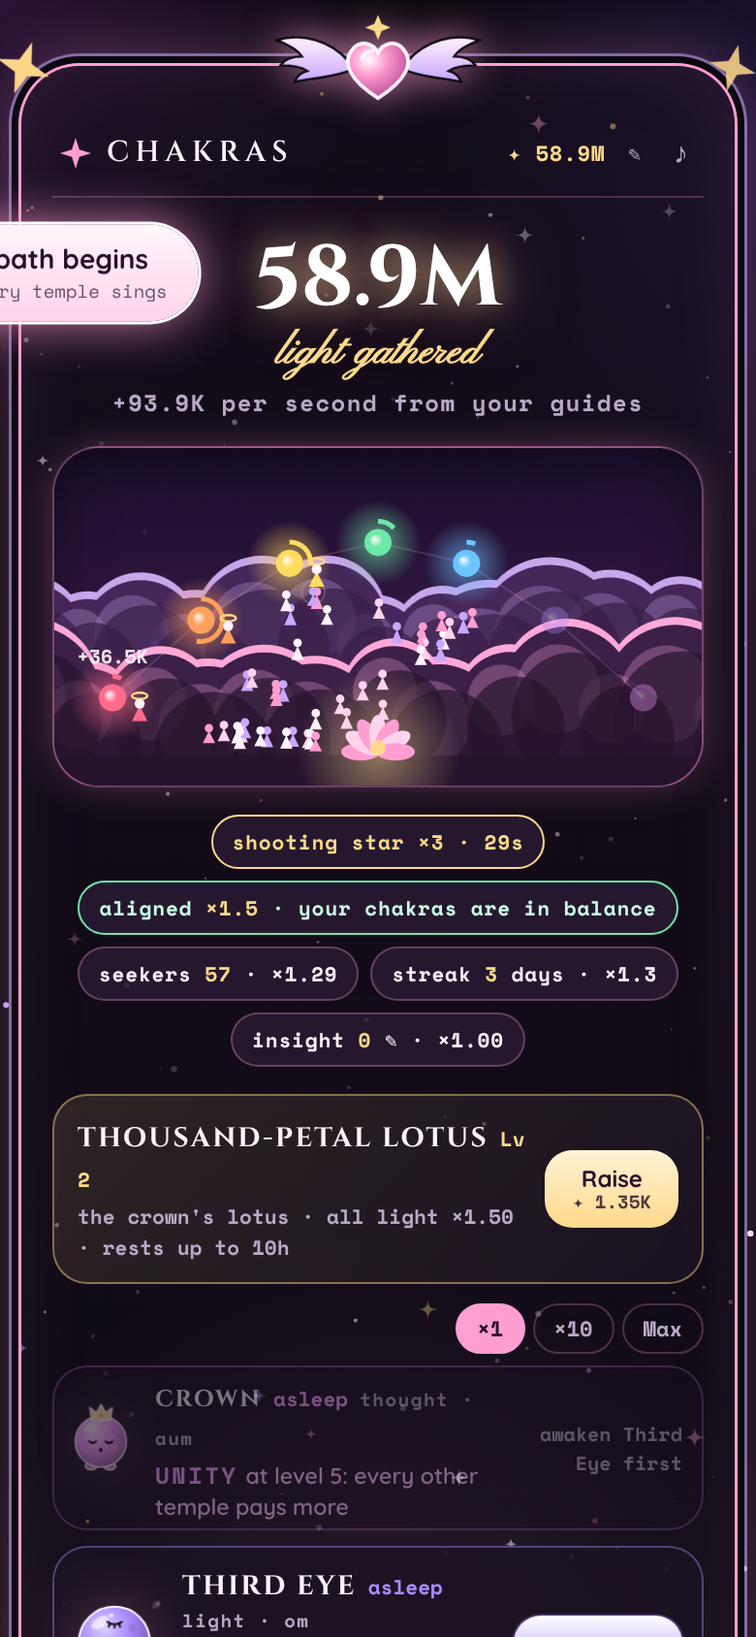
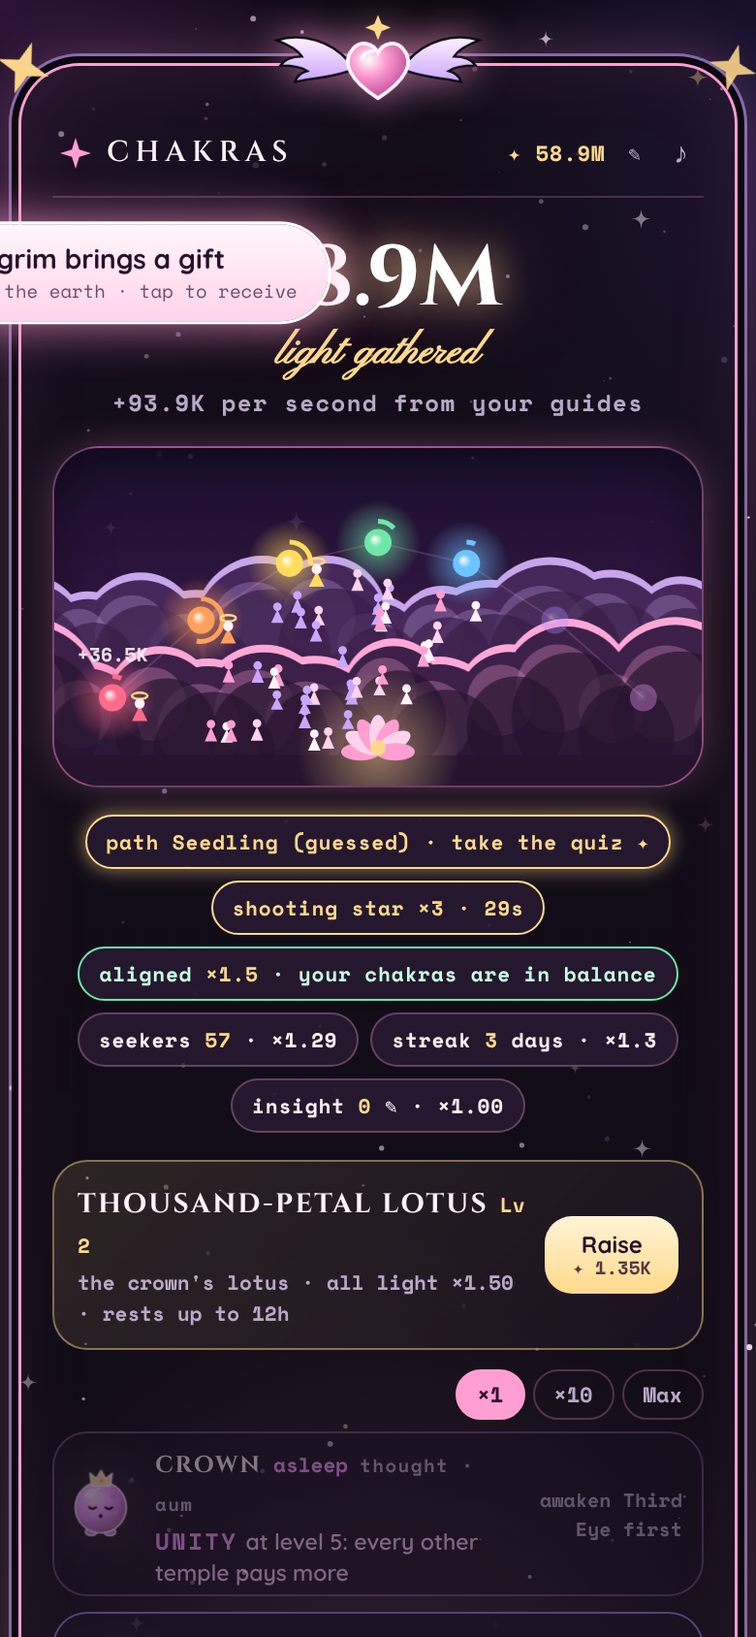
Your path: an opening quiz that sets how the game meets each player
New players take a short quiz (seven scored questions on experience,
stillness, techniques, staying with hard feelings, chakra awareness,
appetite for intensity and felt energy, plus a private health question
and an intention). assess() places them as Seedling, Blossoming or Open
lotus, with safeguards for skipped or invalid answers, mixed signals,
raw trauma and medical conditions. The path drives when Deepen opens,
card rewards for gentle and deep cards, visitors, rest time, the
alignment ceiling and 'for you' suggestions. Unsafe cards are filtered
out with a fallback to reflection. Older saves get a guessed path; the
quiz can be retaken from the sanctuary.

Claude-Session: https://claude.ai/code/session_01Cu9cDfZ5J75K2oig87yeLY

diff --git a/index.html b/index.html
@@ -189,6 +189,21 @@
   .card .sitter { position: absolute; top: -58px; right: 18px; }
   .card .sitter .buddy { width: 68px; height: 68px; margin: 0; }
   .card .text { font-size: 22px; line-height: 1.4; font-weight: 700; }
+  .qbar { height: 4px; border-radius: 4px; background: rgba(255,255,255,.08); margin: 10px 0 18px; overflow: hidden; }
+  .qbar i { display: block; height: 100%; width: 0; background: linear-gradient(90deg, var(--lilac), var(--rose)); transition: width .4s ease; }
+  .qopts button { padding: 14px 16px; }
+  .qopts button b { font-family: "Quicksand", sans-serif; font-size: 16px; letter-spacing: 0; text-transform: none; font-weight: 700; }
+  .qopts button.sel { border-color: var(--rose); background: color-mix(in srgb, var(--rose) 18%, rgba(42,27,51,.85)); }
+  .qopts .tick { margin-left: auto; width: 20px; height: 20px; border-radius: 6px; border: 1.5px solid var(--rose); flex: none; display: grid; place-items: center; font-size: 13px; color: #2a0f2b; }
+  .qopts button.sel .tick { background: var(--rose); }
+  .pathcard { margin-top: 14px; text-align: left; }
+  .pathcard li { margin: 6px 0; color: #e6d6ee; font-weight: 500; font-size: 14.5px; line-height: 1.45; }
+  .pathcard .note { text-align: left; font-size: 13px; color: var(--gold); margin: 8px 0 0; }
+  .foryou { font-family: "Space Mono", monospace; font-size: 9.5px; letter-spacing: .1em; text-transform: uppercase; padding: 2px 7px; margin-left: 6px; border-radius: 999px;
+    vertical-align: middle; color: #2a0f2b; background: var(--gold); }
+  .choice .foryou { color: #2a0f2b; font-weight: 700; }
+  .chip.path { cursor: pointer; border-color: var(--lilac); }
+  .chip.path.ask { border-color: var(--gold); color: var(--gold); animation: ready 1.6s ease-in-out infinite; }
   .care { margin: 14px 0 0; padding: 8px 12px; border-radius: 12px; font-size: 12.5px; font-weight: 600; line-height: 1.45; color: #ffe7c2;
     background: rgba(255,217,138,.08); border: 1px solid color-mix(in srgb, var(--gold) 40%, transparent); }
   .care[hidden] { display: none; }
@@ -522,7 +537,7 @@
       <div class="lrate" id="h-rate">+0 per second</div>
     </div>
     <div class="scene sanct" id="h-scene"><canvas id="h-canvas" aria-hidden="true"></canvas></div>
-    <div class="chips"><span class="chip boost" id="h-boost" hidden></span><span class="chip" id="h-align" hidden></span><span class="chip" id="h-seekers"></span><span class="chip" id="h-streak"></span><span class="chip" id="h-insight"></span><span class="chip" id="h-petals"></span></div>
+    <div class="chips"><span class="chip path" id="h-path" role="button" tabindex="0"></span><span class="chip boost" id="h-boost" hidden></span><span class="chip" id="h-align" hidden></span><span class="chip" id="h-seekers"></span><span class="chip" id="h-streak"></span><span class="chip" id="h-insight"></span><span class="chip" id="h-petals"></span></div>
     <div class="altar">
       <div><b>Thousand-petal lotus</b><span class="lv" id="a-lv"></span><div class="rr" id="a-info"></div></div>
       <button id="a-buy">Raise<small id="a-cost"></small></button>
@@ -543,6 +558,29 @@
     <h2>The lotus</h2>
     <p class="muted" id="l-sub" style="margin:6px 0 14px"></p>
     <div class="jlist" id="l-list"></div>
+  </section>
+
+  <!-- the path quiz -->
+  <section class="screen" id="s-quiz">
+    <div class="jhead"><p class="label" id="q-step"></p><button class="link" id="q-back" style="padding:6px 0">← Back</button></div>
+    <div class="qbar"><i id="q-prog"></i></div>
+    <h2 id="q-title" style="font-size:21px;letter-spacing:.05em;text-transform:none;line-height:1.3"></h2>
+    <p class="muted" id="q-help" style="margin:8px 0 0"></p>
+    <div class="choice qopts" id="q-opts"></div>
+    <button class="btn" id="q-next" style="margin-top:16px" hidden>Next</button>
+    <button class="link" id="q-skip">Skip this one</button>
+  </section>
+
+  <!-- your path -->
+  <section class="screen center" id="s-path">
+    <div class="scene" style="min-height:200px"><div class="lineup" id="pa-line"></div></div>
+    <p class="label" style="justify-content:center;margin-top:18px">your path</p>
+    <h2 id="pa-name" style="margin-top:4px"></h2>
+    <p class="script" id="pa-sub" style="font-size:26px;margin:4px 0 0"></p>
+    <div class="panel pathcard"><ul id="pa-list" style="margin:0;padding-left:18px"></ul><div id="pa-notes"></div></div>
+    <div class="grow"></div>
+    <button class="btn" id="pa-go" style="margin-top:16px">Begin the journey</button>
+    <button class="link" id="pa-retake">Retake the quiz</button>
   </section>
 
   <!-- travel -->
@@ -868,7 +906,7 @@ function show(id) {
   document.body.classList.toggle("home", id === "s-welcome");
   document.body.classList.toggle("end", id === "s-end");
   document.body.classList.toggle("hub", id === "s-hub");
-  document.body.classList.toggle("jour", id === "s-journal" || id === "s-lotus");
+  document.body.classList.toggle("jour", ["s-journal", "s-lotus", "s-quiz", "s-path"].includes(id));
   window.scrollTo(0, 0);
 }
 function setGlow(color) { document.documentElement.style.setProperty("--glow", color || "#ff9ed1"); }
@@ -917,15 +955,24 @@ function startPick() {
   const c = ch(); setGlow(c.color); drawDock(); crumb(c.name.toLowerCase(), "choose");
   $("p-buddy").innerHTML = buddy(c, moodNow(), "small");
   $("pick-intimacy").hidden = !c.intimacy;
-  const canDeep = S.opened[S.step] && c.deepen;
+  const canDeep = !!c.deepen && deepenOpen(S.step);
   $("pick-deepen").classList.toggle("locked", !canDeep);
-  $("p-deep-sub").textContent = canDeep ? "Challenging practices for those already open. Counts double." : `Opens once ${c.name} is awake.`;
+  $("p-deep-sub").textContent = canDeep ? `Challenging practices for those already open. Pays ×${rewardMult("deepen")}.` : deepenHint(S.step, c);
+  const lv = levelNow(), forYou = lv === 0 ? ["pick-practice", "pick-reflect"] : lv === 1 ? ["pick-reflect", ...(canDeep ? ["pick-deepen"] : [])] : canDeep ? ["pick-deepen"] : ["pick-reflect"];
+  ["pick-reflect", "pick-practice", "pick-deepen"].forEach((id) => {
+    const b = $(id).querySelector("b"); b.querySelector(".foryou")?.remove();
+    if (forYou.includes(id)) b.insertAdjacentHTML("beforeend", `<span class="foryou">for you</span>`);
+  });
   S.card = null; save(); show("s-pick");
 }
 
 function draw(type, avoid) {
   const c = ch(), key = c.id + ":" + type;
-  const all = c[type].map((x, i) => ({ i, ...(typeof x === "string" ? { text: x } : x) }));
+  if (!Array.isArray(c[type]) || !c[type].length) return type === "reflect" ? openHub() : draw("reflect");
+  const all = c[type].map((x, i) => ({ i, ...(typeof x === "string" ? { text: x } : x) })).filter(safeCard);
+  // if safety leaves nothing in this deck, fall back to a gentler one
+  if (!all.length) { toast("Those practices aren't safe for you right now, so here's a reflection instead ♡"); return type === "reflect" ? openHub() : draw("reflect"); }
+  if (avoid !== undefined && all.length === 1) avoid = undefined;
   const used = S.used[key] || [];
   let pool = all.filter((x) => !used.includes(x.i) && x.i !== avoid);
   if (!pool.length) { S.used[key] = []; pool = all.filter((x) => x.i !== avoid); }
@@ -941,7 +988,9 @@ function renderCard() {
   const c = ch(), k = S.card; setGlow(c.color); drawDock();
   crumb(c.name.toLowerCase(), k.type);
   $("c-meta").textContent = `${c.name} · ${k.type === "intimacy" ? "intimacy 18+" : k.type === "deepen" ? "deepen ✦✦" : k.type}${k.theme ? " · " + k.theme : ""}`;
-  $("c-care").hidden = !k.care; $("c-care").textContent = k.care ? "Take care: " + k.care : "";
+  const gentle = prof().trauma && (k.type === "deepen" || k.type === "intimacy") ? "Go gently. You can stop or skip anything that feels like too much." : "";
+  const careText = [k.care, gentle].filter(Boolean).join(" ");
+  $("c-care").hidden = !careText; $("c-care").textContent = careText ? "Take care: " + careText : "";
   $("c-deep-btn").hidden = !k.deeper; $("c-deep").hidden = true; $("c-deep-t").textContent = k.deeper || "";
   $("c-ans").value = k.draft || "";
   $("c-ans").placeholder = k.type === "practice" ? "How did it feel? (optional)" : k.type === "deepen" ? "What came up? (optional, stays on this device)" : "Write your answer… (optional, stays on this device)";
@@ -982,9 +1031,10 @@ function finishCard(completed) {
     S.opened[i] = true; S.glow[i] = Math.max(i === 0 && S.firstLight ? S.firstLight : 1, S.glow[i]); S.cards[i] += deep ? 2 : 1;
     if (i === 0) S.firstLight = 0;
     const streakUp = bumpStreak();
-    const g = cardReward(i, !wasOpen) * (deep ? 2 : 1); earn(g);
+    const rm = rewardMult(deep ? "deepen" : "gentle");
+    const g = cardReward(i, !wasOpen) * rm; earn(g);
     const newSeekers = (wasOpen ? 3 : 10) + (wrote ? 5 : 0); S.seekers += newSeekers;
-    gainText = [deep ? "deep work ×2 ✦✦" : "", `+${fmtN(g)} ✦ light`, `${c.name} cards ×${(1 + .25 * S.cards[i]).toFixed(2)}`,
+    gainText = [`${LEVELS[levelNow()].name} ${deep ? "deep work" : "card"} ×${rm}`, `+${fmtN(g)} ✦ light`, `${c.name} cards ×${(1 + .25 * S.cards[i]).toFixed(2)}`,
       `+${newSeekers} seekers`, wrote ? "insight +2% ✎" : "", streakUp ? `day ${S.streak.n} streak ✦` : ""].filter(Boolean).join(" · ");
   }
   S.card = null; save(); drawDock();
@@ -1256,7 +1306,8 @@ function alignment() {
   if (lv.length < 2) return { mult: 1, ratio: 1, low: -1 };
   const lo = Math.min(...lv), hi = Math.max(...lv), ratio = lo / hi;
   const low = S.glow.findIndex((g, i) => S.opened[i] && g === lo);
-  return { mult: ratio >= .5 ? 1.5 : ratio >= .25 ? 1.2 : 1, ratio, low };
+  const top = levelNow() === 2 ? 1.75 : 1.5;
+  return { mult: ratio >= .5 ? top : ratio >= .25 ? 1.2 : 1, ratio, low, top };
 }
 const UNITS = ["K", "M", "B", "T", "Qa", "Qi", "Sx", "Sp", "Oc", "No", "Dc"];
 function fmtN(n) {
@@ -1291,7 +1342,7 @@ const blessMult = (m) => 1 + (m - 1) * (1 + gift(5) / 100);
 const sk = (id) => S.skills[id] || 0;
 const altarMult = () => 1 + .25 * S.altar;
 const altarCost = () => ALTAR_COST0 * ALTAR_GROWTH ** S.altar;
-const restCap = () => OFFLINE_CAP + 3600 * (Math.floor(S.altar / 3) + 2 * sk("rest") + gift(0));
+const restCap = () => OFFLINE_CAP + 3600 * (Math.floor(S.altar / 3) + 2 * sk("rest") + gift(0) + (levelNow() === 0 ? 2 : 0));
 const cycleOf = (i) => CYCLE[i] / (1 + .1 * sk("swift"));
 const guideMult = (i) => S.guides[i] ? STAR_MULT[S.stars[i]] * (1 + .5 * sk("devoted")) : 1;
 const starCost = (i) => GUIDE_COST[i] * 8 ** S.stars[i];
@@ -1381,6 +1432,167 @@ $("a-buy").onclick = () => {
   toast(`The thousand-petal lotus opens wider · all light ×${altarMult().toFixed(2)}`); NOTES.slice(0, 3).forEach((f, k) => bowl(f, 3, .07, k * .1));
   burst($("h-scene"), { n: 18, spread: 150 }); save(); updateHub();
 };
+
+// ---------- your path: a short quiz that sets how the whole game meets you ----------
+const QUIZ = [
+  { id: "exp", q: "How long have you been working with chakras or energy practices?",
+    o: ["I'm brand new", "A few months", "A year or two", "Many years, it's part of my life"] },
+  { id: "sit", q: "How often do you meditate or sit in stillness?",
+    o: ["Rarely or never", "Now and then", "Most weeks", "Daily, often 20 minutes or more"] },
+  { id: "tried", q: "Which of these have you practiced?", help: "Pick all that apply.", multi: true,
+    o: [["breath", "Breathwork like kapalabhati or alternate-nostril breathing"], ["mantra", "Chanting seed sounds or mantras, like 108 rounds"],
+      ["bandha", "Bandhas, like mula bandha"], ["shadow", "Shadow work or deep journaling"], ["vision", "Candle gazing or visualization"],
+      ["silence", "Long silence or a retreat"], ["none", "None of these yet"]] },
+  { id: "emotion", q: "When you sit with a hard emotion, what usually happens?",
+    o: ["I avoid it or distract myself", "I can notice it for a little while", "I can stay with it and breathe through it", "I can feel it fully and let it move through me"] },
+  { id: "aware", q: "Could you name a chakra that feels blocked or overactive in you right now?",
+    o: ["Not really", "I have a guess", "Yes, and I know why", "Yes, and I know what practice it needs"] },
+  { id: "intensity", q: "How do you feel about intense practices: long holds, cold water, two hours of silence?",
+    o: ["I'd rather start gentle", "Curious, in small doses", "I like a challenge", "That's where I grow most"] },
+  { id: "energy", q: "Have you felt energy move in your body during practice, like warmth, tingling or a rising feeling?",
+    o: ["No", "I'm not sure", "Sometimes", "Often, and I know how to work with it"] },
+  { id: "safety", q: "Does any of this apply to you right now?", multi: true, unscored: true,
+    help: "Private, and it stays on this device. It only keeps some practices off your cards.",
+    o: [["pregnant", "Pregnant"], ["heart", "High blood pressure or a heart condition"], ["epilepsy", "Epilepsy or seizures"],
+      ["injury", "A recent injury or surgery"], ["trauma", "Working through trauma that feels raw"], ["none", "None of these"]] },
+  { id: "intent", q: "What brings you here?", unscored: true,
+    o: [["calm", "Calm and rest"], ["heal", "Healing something"], ["grow", "Growing my practice"], ["awaken", "Awakening, and deep work"]] },
+];
+const LEVELS = [
+  { name: "Seedling", sub: "a gentle beginning", bullets: [
+    "Reflect and Practice cards are made for you, and pay ×1.5.",
+    "Deepen opens in a chakra after three cards there, and pays ×3 when you're ready.",
+    "More visitors drift by, and your sanctuary rests 2 hours longer while you're away."] },
+  { name: "Blossoming", sub: "growing your practice", bullets: [
+    "Deepen opens as soon as a chakra wakes, and pays ×2.",
+    "Reflect and Practice keep you steady at ×1.",
+    "A balanced sanctuary pays up to ×1.5."] },
+  { name: "Open lotus", sub: "deep work, from the start", bullets: [
+    "Deepen is open from your very first card, and pays ×2.5.",
+    "Gentle cards pay ×0.75: your growth is in the deep work.",
+    "Balance is your practice: an aligned sanctuary pays up to ×1.75."] },
+];
+const REWARD = [[1.5, 3], [1, 2], [.75, 2.5]]; // [gentle cards, deep cards] by level
+const MEDICAL = ["pregnant", "heart", "epilepsy", "injury"];
+
+// score one answer 0..3, or null if skipped or unclear
+function scoreOf(id, v) {
+  const q = QUIZ.find((x) => x.id === id);
+  if (!q || q.unscored || v === undefined || v === null) return null;
+  if (q.multi) {
+    if (!Array.isArray(v) || !v.length) return null;
+    const n = v.filter((x) => x !== "none").length;
+    return n === 0 ? 0 : n <= 2 ? 1 : n <= 4 ? 2 : 3;
+  }
+  return Number.isInteger(v) && v >= 0 && v <= 3 ? v : null;
+}
+// turn answers into a path, with safeguards for skipped, mixed or sensitive answers
+function assess(a) {
+  a = a && typeof a === "object" ? a : {};
+  const notes = [], sc = (id) => scoreOf(id, a[id]);
+  const vals = QUIZ.filter((q) => !q.unscored).map((q) => sc(q.id)).filter((v) => v !== null);
+  let level = 0, score = null, gentleDeepen = false;
+  if (vals.length < 3) {
+    notes.push("You skipped most questions, so you're starting gently. Retake the quiz anytime.");
+  } else {
+    score = (vals.reduce((t, v) => t + v, 0) / vals.length) * 7; // average, scaled to 0–21
+    level = score >= 14 ? 2 : score >= 7 ? 1 : 0;
+    if (level === 0 && (sc("sit") ?? 0) >= 2 && (sc("tried") ?? 0) >= 2) {
+      level = 1; notes.push("Your practice is steadier than you might think, so you start at Blossoming.");
+    }
+    if (level === 2 && sc("exp") === 0) {
+      level = 1; notes.push("You're drawn to intensity but new to this work, so the deepest practices open step by step.");
+    }
+    if (level === 2 && sc("emotion") === 0) {
+      level = 1; notes.push("Hard feelings are still tough to stay with, so you'll build that first before the deepest work.");
+    }
+    if (level >= 1 && sc("intensity") === 0) {
+      gentleDeepen = true; notes.push("You'd rather start gentle, so Deepen opens after a few cards in each chakra.");
+    }
+  }
+  const cond = Array.isArray(a.safety) ? a.safety.filter((x) => x !== "none") : [];
+  const medical = cond.some((c) => MEDICAL.includes(c)), trauma = cond.includes("trauma");
+  if (trauma) {
+    if (level === 2) level = 1;
+    notes.push("Because something raw is being worked through, deep cards remind you to go gently. You can skip anything.");
+  }
+  if (medical) notes.push("Practices with breath holds, cold water or strong poses are kept off your cards.");
+  const intent = typeof a.intent === "string" ? a.intent : null;
+  if (intent === "awaken" && level === 0) notes.push("Awakening is a long road. You'll walk it from the root up.");
+  if (intent === "calm" && level === 2) notes.push("You came for calm: Reflect and Practice are always there when deep work isn't what you need.");
+  return { level, score, notes, cond, medical, trauma, gentleDeepen, intent, answers: a, takenAt: Date.now() };
+}
+// before the quiz is taken (older saves), estimate from how much they've done
+function levelNow() {
+  if (S && S.profile && Number.isInteger(S.profile.level)) return Math.max(0, Math.min(2, S.profile.level));
+  const n = S ? S.cards.reduce((t, v) => t + v, 0) : 0;
+  return n >= 25 ? 1 : 0;
+}
+const prof = () => (S && S.profile) || {};
+const rewardMult = (deck) => REWARD[levelNow()][deck === "deepen" ? 1 : 0];
+function deepenOpen(i) {
+  const lv = levelNow();
+  if (lv === 2 && !prof().gentleDeepen) return true;
+  if (lv >= 1 && !prof().gentleDeepen) return !!S.opened[i];
+  return !!S.opened[i] && S.cards[i] >= 3;
+}
+const deepenHint = (i, c) => levelNow() === 2 && !prof().gentleDeepen ? "" : !S.opened[i] ? `Opens once ${c.name} is awake.` : `Opens after 3 ${c.name} cards (${S.cards[i]}/3).`;
+// cards a player shouldn't get, for their safety
+const safeCard = (x) => !(prof().medical && x.care);
+
+let Q = { i: 0, a: {}, retake: false };
+function openQuiz(retake) {
+  Q = { i: 0, a: {}, retake: !!retake };
+  setGlow("#c9a7ff"); crumb("your path"); show("s-quiz"); renderQ();
+}
+function renderQ() {
+  const q = QUIZ[Q.i], v = Q.a[q.id];
+  $("q-step").textContent = `question ${Q.i + 1} of ${QUIZ.length}`;
+  $("q-prog").style.width = `${(Q.i / QUIZ.length) * 100}%`;
+  $("q-title").textContent = q.q;
+  $("q-help").textContent = q.help || ""; $("q-help").hidden = !q.help;
+  $("q-opts").innerHTML = q.o.map((o, n) => {
+    const [val, label] = Array.isArray(o) ? o : [n, o];
+    const sel = q.multi ? Array.isArray(v) && v.includes(val) : v === val;
+    return `<button class="${sel ? "sel" : ""}" data-v="${val}"><span><b>${label}</b></span>${q.multi ? `<span class="tick">${sel ? "✓" : ""}</span>` : ""}</button>`;
+  }).join("");
+  $("q-next").hidden = !q.multi;
+  $("q-next").textContent = Q.i === QUIZ.length - 1 ? "See my path" : "Next";
+  $("q-back").style.visibility = Q.i ? "visible" : "hidden";
+}
+function qNext() { if (Q.i < QUIZ.length - 1) { Q.i += 1; renderQ(); } else finishQuiz(); }
+$("q-opts").addEventListener("click", (e) => {
+  const b = e.target.closest("button"); if (!b) return;
+  const q = QUIZ[Q.i], raw = b.dataset.v, val = /^\d+$/.test(raw) && !Array.isArray(q.o[0]) ? +raw : raw;
+  chime(Math.min(6, Q.i), .8, .05);
+  if (q.multi) {
+    let cur = Array.isArray(Q.a[q.id]) ? Q.a[q.id] : [];
+    if (val === "none") cur = cur.includes("none") ? [] : ["none"];           // "none" clears the rest
+    else cur = cur.includes(val) ? cur.filter((x) => x !== val) : [...cur.filter((x) => x !== "none"), val];
+    Q.a[q.id] = cur; renderQ();
+  } else { Q.a[q.id] = val; renderQ(); setTimeout(qNext, 220); }
+});
+$("q-next").onclick = qNext;
+$("q-skip").onclick = () => { delete Q.a[QUIZ[Q.i].id]; qNext(); };
+$("q-back").onclick = () => { if (Q.i > 0) { Q.i -= 1; renderQ(); } };
+function finishQuiz() {
+  const p = assess(Q.a);
+  S.profile = p; save();
+  const L = LEVELS[p.level];
+  $("pa-line").innerHTML = CHAKRAS.map((c, i) => buddy(c, i <= p.level * 3 ? "awake" : "sleep")).join("");
+  $("pa-name").textContent = L.name;
+  $("pa-sub").textContent = L.sub;
+  $("pa-list").innerHTML = L.bullets.map((b) => `<li>${esc(b)}</li>`).join("");
+  $("pa-notes").innerHTML = p.notes.map((n) => `<p class="note">✦ ${esc(n)}</p>`).join("");
+  $("pa-go").textContent = Q.retake ? "Back to your sanctuary" : "Begin the journey";
+  setGlow(CHAKRAS[[0, 3, 6][p.level]].color); crumb("your path"); show("s-path");
+  NOTES.slice(0, 3 + p.level * 2).forEach((f, k) => bowl(f, 3, .06, k * .12));
+  setTimeout(() => burst($("pa-name"), { n: 14 + p.level * 6, spread: 130 }), 300);
+}
+$("pa-go").onclick = () => (Q.retake || S.opened.some(Boolean) ? openHub() : travel());
+$("pa-retake").onclick = () => openQuiz(Q.retake);
+$("h-path").onclick = () => openQuiz(true);
+$("h-path").onkeydown = (e) => { if (e.key === "Enter" || e.key === " ") { e.preventDefault(); openQuiz(true); } };
 
 // ---------- the lotus: permanent skills bought with petals ----------
 function openLotus() {
@@ -1558,12 +1770,15 @@ function updateHub() {
   const b = S.boost && S.boost.until > Date.now() ? S.boost : null;
   $("h-boost").hidden = !b;
   if (b) $("h-boost").textContent = `${b.name} ×${b.mult} · ${Math.ceil((b.until - Date.now()) / 1000)}s`;
+  const hasP = !!(S.profile && Number.isInteger(S.profile.level));
+  $("h-path").classList.toggle("ask", !hasP);
+  $("h-path").innerHTML = hasP ? `path <b>${LEVELS[levelNow()].name}</b> · retake` : `path <b>${LEVELS[levelNow()].name}</b> (guessed) · take the quiz ✦`;
   const al = alignment();
   $("h-align").hidden = al.low < 0;
   if (al.low >= 0) {
     $("h-align").className = "chip " + (al.mult >= 1.5 ? "align-good" : "align-off");
-    $("h-align").innerHTML = al.mult >= 1.5 ? `aligned <b>×1.5</b> · your chakras are in balance`
-      : `${al.mult > 1 ? "partly aligned ×1.2" : "out of balance"} · raise <b>${CHAKRAS[al.low].name}</b> for ×1.5`;
+    $("h-align").innerHTML = al.mult >= 1.5 ? `aligned <b>×${al.top}</b> · your chakras are in balance`
+      : `${al.mult > 1 ? "partly aligned ×1.2" : "out of balance"} · raise <b>${CHAKRAS[al.low].name}</b> for ×${al.top}`;
   }
   $("h-seekers").innerHTML = `seekers <b>${Math.floor(S.seekers)}</b> · ×${seekerMult().toFixed(2)}`;
   $("h-streak").innerHTML = `streak <b>${S.streak.n}</b> day${S.streak.n === 1 ? "" : "s"} · ×${streakMult().toFixed(1)}`;
@@ -1640,7 +1855,7 @@ setInterval(() => {
   const now = Date.now(), dt = Math.min((now - lastTick) / 1000, S && S.glow ? restCap() : OFFLINE_CAP); lastTick = now;
   if (!S || !S.glow) return;
   advance(dt); S.lastSeen = now;
-  if (current === "s-hub" && !visitorEl && now > nextVisit && !document.hidden) { spawnVisitor(); nextVisit = now + (45 + Math.random() * 60) * 1000 / ((1 + .25 * sk("starlit")) * (1 + gift(1) / 100)); }
+  if (current === "s-hub" && !visitorEl && now > nextVisit && !document.hidden) { spawnVisitor(); nextVisit = now + (45 + Math.random() * 60) * 1000 / ((1 + .25 * sk("starlit")) * (1 + gift(1) / 100) * (levelNow() === 0 ? 1.25 : 1)); }
   if (now - lastSave > 3000) { lastSave = now; save(); }
   updateHub();
 }, 200);
@@ -1682,7 +1897,7 @@ if (saved && Array.isArray(saved.opened) && typeof saved.step === "number") {
 $("begin").onclick = () => {
   if (S) { openHub(); return welcomeBack(); }
   S = newState(); save();
-  travel();
+  openQuiz(false);
 };
 $("resume").onclick = $("begin").onclick;
 $("t-skip").onclick = startIntro;
@@ -1690,7 +1905,7 @@ $("ready").onclick = startPick;
 $("pick-reflect").onclick = () => draw("reflect");
 $("pick-practice").onclick = () => draw("practice");
 $("pick-deepen").onclick = () => {
-  if (!S.opened[S.step]) { toast(`Finish a ${ch().name} card first, then Deepen opens ✦✦`); return; }
+  if (!deepenOpen(S.step)) { toast(deepenHint(S.step, ch()) + " ✦✦"); return; }
   draw("deepen");
 };
 $("pick-intimacy").onclick = () => {

diff --git a/README.md b/README.md
@@ -14,6 +14,27 @@ or psychological advice.
 
 Open the GitHub Pages link on your phone. Tip: "Add to Home Screen" makes it feel like an app.
 
+## Your path (the opening quiz)
+
+New players start with a short quiz: seven scored questions (experience, stillness, techniques
+tried, staying with hard feelings, chakra awareness, appetite for intensity, felt energy), a
+private health question and "what brings you here". It places them on a path, and the whole game
+follows it:
+
+| | Seedling (beginner) | Blossoming (intermediate) | Open lotus (advanced) |
+|---|---|---|---|
+| Deepen opens | after 3 cards in that chakra | once the chakra wakes | from the first card |
+| Rewards: gentle / deep cards | ×1.5 / ×3 | ×1 / ×2 | ×0.75 / ×2.5 |
+| Also | more visitors, rests 2h longer | standard | alignment pays up to ×1.75 |
+
+Safeguards in `assess()`: most questions skipped → Seedling; steady practice but rating themselves
+low → Blossoming; new to the work but craving intensity → capped at Blossoming; can't yet stay with
+hard feelings → capped at Blossoming; prefers gentle → Deepen opens after 3 cards; raw trauma →
+capped at Blossoming with "go gently" notes on deep cards; pregnancy, a heart condition, epilepsy
+or an injury → cards with a safety note never appear (with a fallback to a reflection if a deck is
+left empty). Older saves get a guessed path until the quiz is taken; it can be retaken anytime
+from the sanctuary.
+
 ## Your sanctuary (the idle tycoon side)
 
 After the first chakra wakes, **Your sanctuary** becomes home: the seven chakras as temples, root
